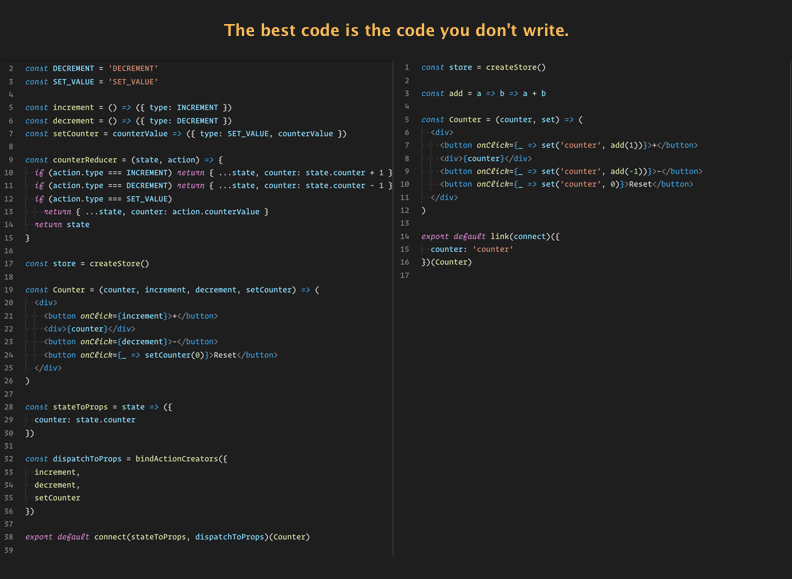
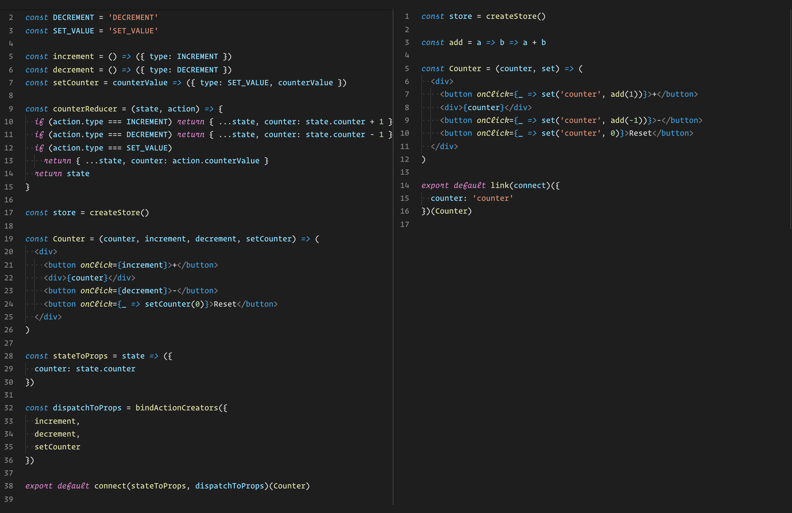
image, readme change

diff --git a/README.md b/README.md
@@ -2,6 +2,12 @@
 Based on Redux, but has no boilerplate and with async flow in mind</br>
 **No Actions. No reducers**
 
+<details>
+  <summary>Show me code</summary>
+
+  ![](example/img/flat-state-title.png)
+</details>
+
 # Installation
 package is available on NPM for use with a module bundler or in a Node application:
 ```Bash
